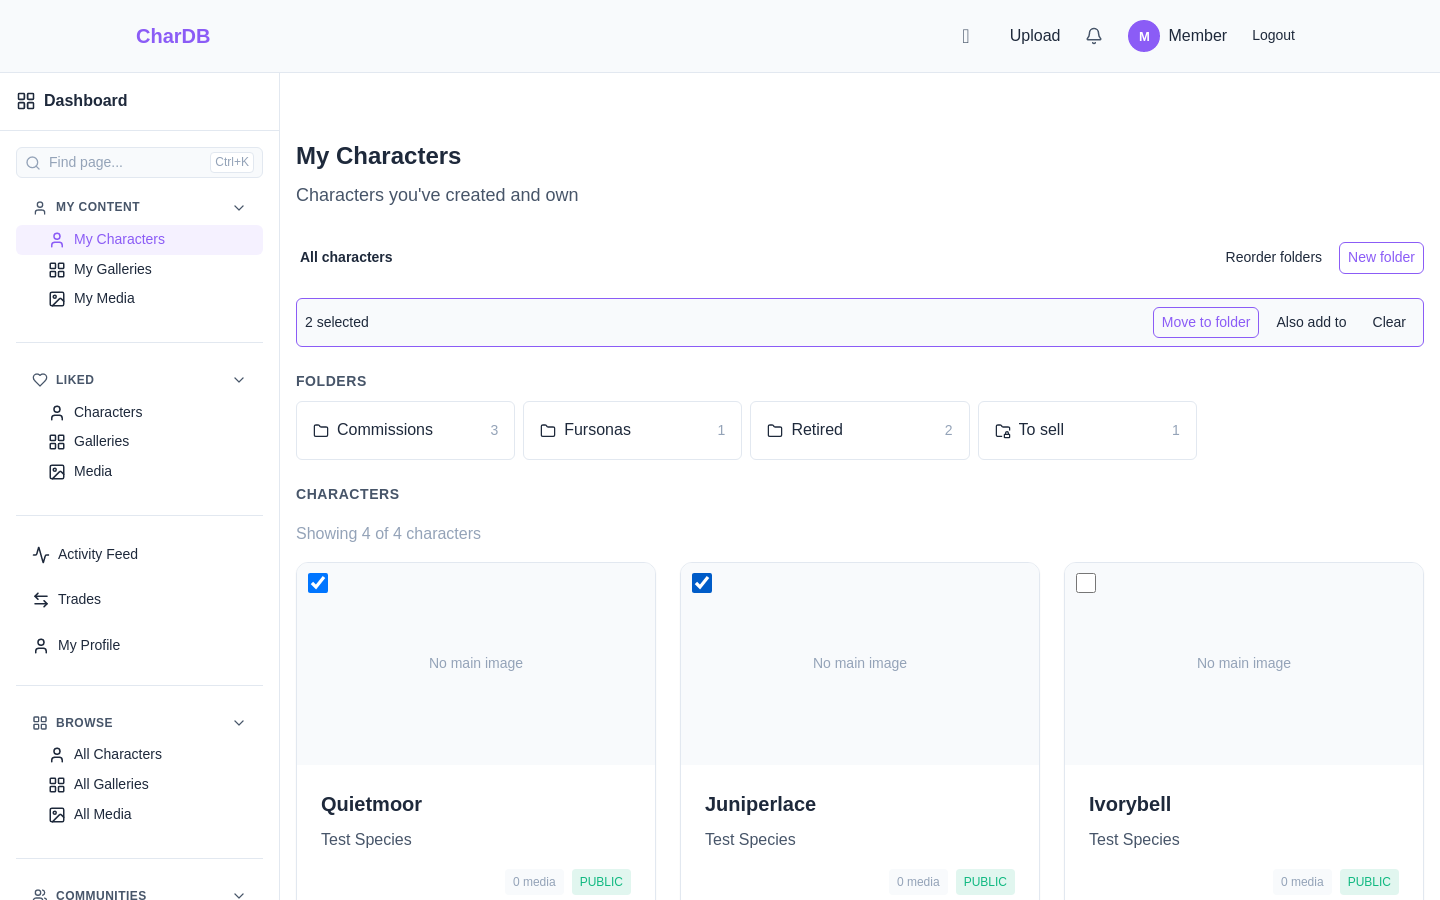
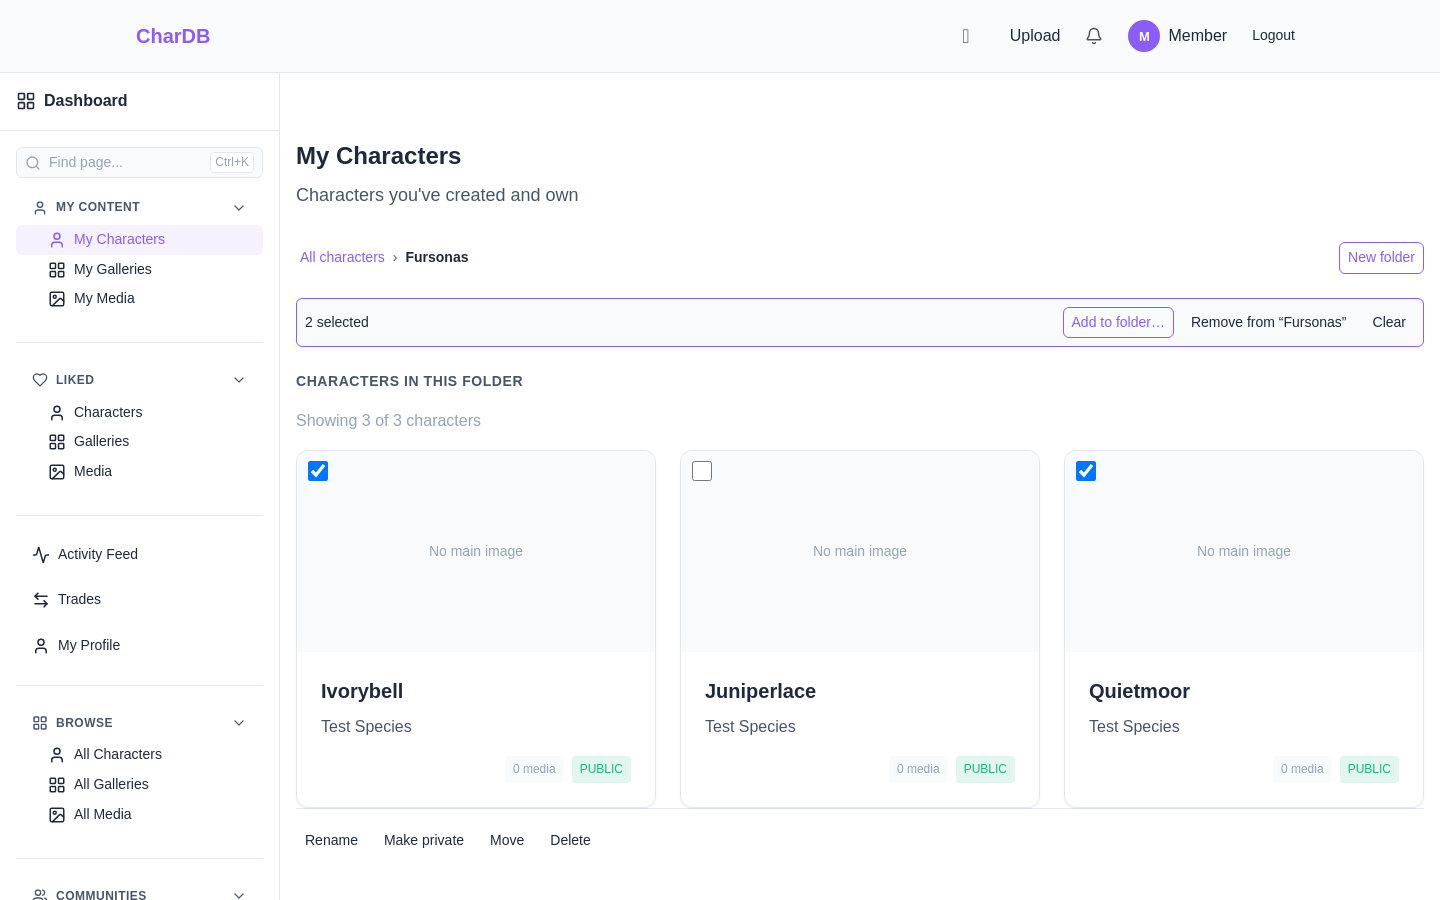
docs(character-folders): walkthrough for add-to-folder and also-remove (#422)

diff --git a/docs/docs/character-folders.html b/docs/docs/character-folders.html
@@ -309,15 +309,23 @@
             <strong>Drag a card onto a folder.</strong> Pick a character up and
             drop it on a folder tile. The tile lights up while the card is over
             it. Dragging <em>moves</em> the character: it leaves the folder you
-            are looking at and lands in the one you dropped it on.
+            are looking at and lands in the one you dropped it on. Any other
+            folders it is in keep it.
           </p>
           <p>
-            <strong>Tick several, then move them together.</strong> Every card
+            <strong>Tick several, then file them together.</strong> Every card
             has a checkbox in its top-left corner. Tick a few and a bar appears
-            with <strong>Move to folder</strong>. This is the one to use when
-            you are clearing a hundred characters rather than filing the one you
-            happened to be looking at. <strong>Also add to</strong> beside it
-            adds them to a second folder without taking them out of the first.
+            with <strong>Add to folder&hellip;</strong>. This is the one to use
+            when you are clearing a hundred characters rather than filing the
+            one you happened to be looking at.
+          </p>
+          <p>
+            Adding never takes a character out of anything. When you are inside
+            a folder, the picker offers <strong>Also remove from</strong> that
+            folder by name; tick it and the button changes from
+            <strong>Add</strong> to <strong>Move</strong>. To take characters
+            out without filing them anywhere, use the bar's own
+            <strong>Remove from</strong> button, which also names the folder.
           </p>
           <p>
             <strong>From the character's own page.</strong> Every character has
@@ -336,20 +344,21 @@
         <div class="screenshot">
           <img
             src="character-folders-bulk.png"
-            alt="Two character cards with their checkboxes ticked, and a bar above the grid reading 2 selected with buttons for Move to folder, Also add to, and Clear"
+            alt="Inside the Fursonas folder, two character cards with their checkboxes ticked, and a bar above the grid reading 2 selected with buttons for Add to folder, Remove from Fursonas, and Clear"
           />
           <div class="screenshot-caption">
             Ticking cards brings up the bar &mdash; the one for clearing a big
-            pile
+            pile. Inside a folder, it names the folder it removes from
           </div>
         </div>
         <div class="screenshot">
           <img
             src="character-folders-picker.png"
-            alt="A dialog titled Move to folder listing No folder, Commissions with 2024 and 2025 indented under it, Fursonas, Retired and To sell, each with a count"
+            alt="A dialog titled Add to folder listing Commissions with 2024 and 2025 indented under it, Fursonas greyed out, Retired selected, and To sell, each with a count; below the list an Also remove from Fursonas checkbox is ticked and the confirm button reads Move"
           />
           <div class="screenshot-caption">
-            Pick an existing folder, or type a name that does not exist yet
+            Pick an existing folder, or type a name that does not exist yet.
+            Ticking &ldquo;Also remove from&rdquo; turns the add into a move
           </div>
         </div>
       </div>
